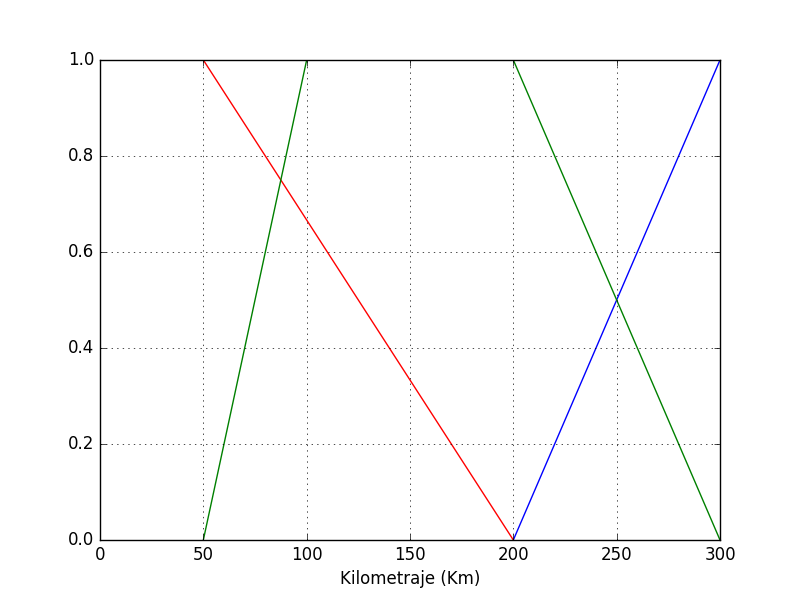
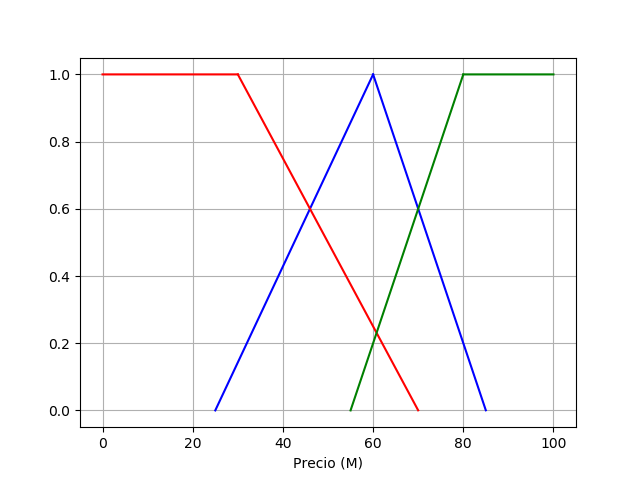
agregue fuzzy1

diff --git a/fuzzy1.py b/fuzzy1.py
@@ -1,0 +1,150 @@
+
+
+import matplotlib.pyplot as plt
+import numpy as np
+column1 = {2 : "Bajo",4 : "Medio",5 : "Alto"}
+column2 = {7:"Barato",9:"Estandar",0:"Costoso"}
+column3 = {9:"bajo",11:"medio",12:"alto",11:"bajo",13:"medio",4:"alto",2:"alto",4:"alto",5:"alto"}
+Barato = [0, 0, 30, 70]
+Estandar = [25, 60, 85]
+Costoso = [55, 80, 100, 100]
+
+#Conjuntos difusos del kilometraje
+Bajo = [0, 0, 50, 200]
+Medio = [50, 100, 200, 300]
+Alto = [200, 300, 300]
+
+#Conjuntos difusos del precio
+
+#Hace las lines de la Grafica, y da la ecuacion de la recta
+def Up_or_Down_Ramp(a, b, t, Tipo):
+
+    if a == b:
+        b = b + 0.0001
+    if Tipo == 0:
+        m = 1 / (b - a)
+        Slope = 1 - m * b
+    elif Tipo == 1:
+        m = 0
+        Slope = 1
+    elif Tipo == 2:
+        m = -1 / (b - a)
+        Slope = 1 - m * a
+    Funcion_recta = t * m + Slope
+    return(Funcion_recta)
+
+
+def triangulo(a, b, c):
+    ta = np.arange(a,b, 0.01)
+    tb = np.arange(b, c, 0.01)
+    Up = Up_or_Down_Ramp(a, b, ta, 0)
+    Down = Up_or_Down_Ramp(b, c, tb, 2)
+    return Up, Down, ta, tb
+
+
+def Trapezoidal(a, b, c, d):
+    ta = np.arange(a, b, 0.01)
+    tb = np.arange(b, c, 0.01)
+    tc = np.arange(c, d, 0.01)
+    Up = Up_or_Down_Ramp(a, b, ta, 0)
+    Down = Up_or_Down_Ramp(c, d, tc, 2)
+    Straight = Up_or_Down_Ramp(b, c, tb, 1)
+    return Up, Straight, Down, ta, tb, tc
+
+
+def Graficar(Grafica):
+    if Grafica == 'Precio':
+        [Up_1, Down_1, ta_1, tb_1] = triangulo(25, 60, 85)
+        [Up, Straight, Down, ta, tb, tc] = Trapezoidal(0,0,30,70)
+        [Up_2, Straight_2, Down_2, ta_2, tb_2, tc_2] = Trapezoidal(55,80,100,100)
+
+        plt.plot(ta_1, Up_1,'b', tb_1, Down_1, 'b')
+        plt.plot(ta, Up,'r', tb, Straight, 'r', tc, Down,'r')
+        plt.plot(ta_2, Up_2,'g', tb_2, Straight_2, 'g', tc_2, Down_2,'g')
+        plt.xlabel('Precio (M)')
+        # plt.title('About as simple as it gets, folks')
+        plt.grid(True)
+        plt.savefig("test.png")
+        plt.show()
+    elif Grafica == 'Kilometraje':
+        [Up_2, Down_2, ta_2, tb_2] = triangulo(200,300,300)
+        [Up, Straight, Down, ta, tb, tc] = Trapezoidal(0,0,50,200)
+        [Up_1, Straight_1, Down_1, ta_1, tb_1, tc_1] = Trapezoidal(50,100,200,300)
+
+        plt.plot(ta_2, Up_2,'b', tb_2, Down_2, 'b')
+        plt.plot(ta, Up,'r', tb, Straight, 'r', tc, Down,'r')
+        plt.plot(ta_1, Up_1,'g', tb_1, Straight_1, 'g', tc_1, Down_1,'g')
+        plt.xlabel('Kilometraje (Km)')
+        # plt.title('About as simple as it gets, folks')
+        plt.grid(True)
+        plt.savefig("test.png")
+        #plt.show()
+        print ('Faltan los otros')
+
+
+def membership_Price():
+    [Up_1, Down_1, ta_1, tb_1] = triangulo(25, 60, 85)
+    [Up, Straight, Down, ta, tb, tc] = Trapezoidal(0,0,30,70)
+    [Up_2, Straight_2, Down_2, ta_2, tb_2, tc_2] = Trapezoidal(55,80,100,100)
+    Price = float(input("precio="))
+    print(Price)
+
+    if Price >= 0 and Price <= 30:
+        print('bajo, pertenece 1 ')
+
+    if Price >= 30 and Price <= 70:
+        print('bajodown')
+        x=30
+        for y in Down:
+            x=(x+0.01)
+
+            if round(x) == Price:
+                print (y)
+                break
+
+    if (Price >= 20 and Price <= 60):
+        print('medioup')
+        x=20
+        for y in Up_1:
+            x=(x+0.01)
+            if round(x) == Price:
+                print (y)
+                break
+    if Price >= 59 and Price <= 85 :
+        print('mediod')
+        x=59
+        for y in Down_1:
+            x=(x+0.01)
+            if round(x) == Price:
+                print (y)
+
+    if Price >= 55 and Price <= 79:
+        print('caro1')
+        x=55
+
+        for y in Up_2:
+            x=(x+0.01)
+            if round(x) == Price:
+                print (y)
+
+    if Price >= 80 and Price <= 100:
+        print('pertenece en 1 caro')
+
+
+
+
+
+#    print(len(Up_1)/100)
+
+
+
+
+
+
+
+
+
+if __name__== '__main__':
+    # Conjuntos difuso de entrada PRECIO
+ membership_Price()
+ Graficar('Precio')
